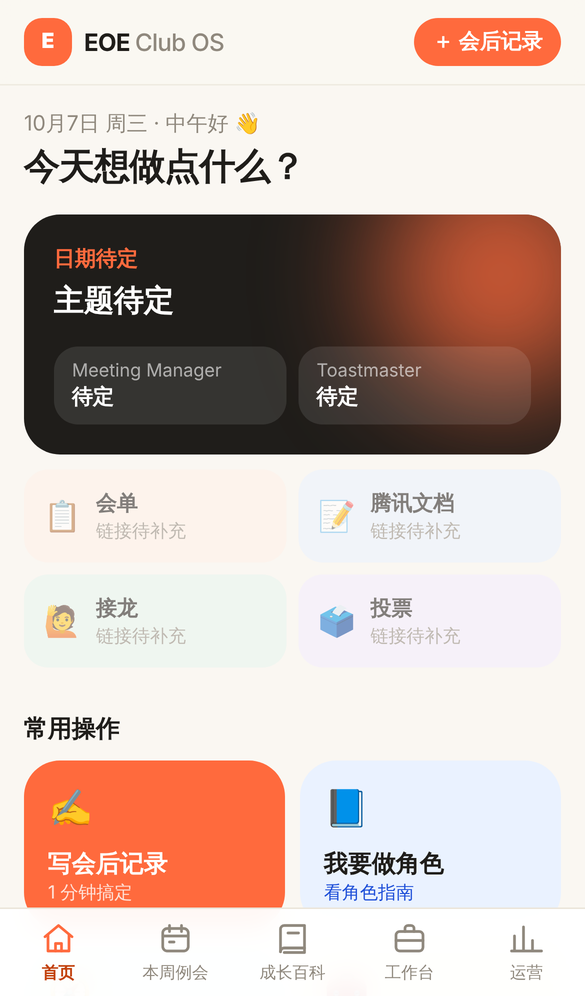
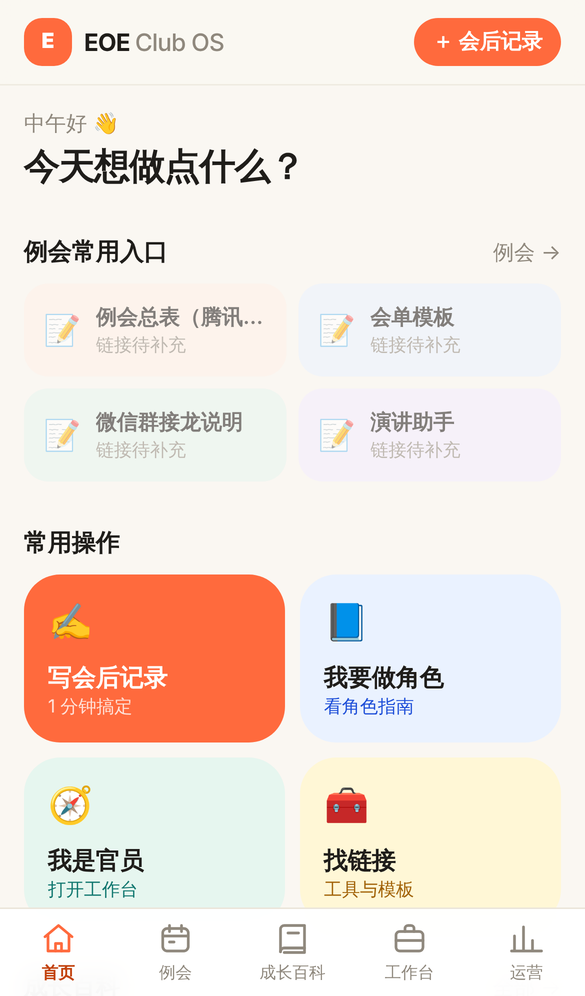
fix: 通用化评审修复
- 文档去掉剩余的人数（十几二十个人 / 20 人规模）和版本标签（v0.1 草稿 / 当前版本）
- 编辑说明里的徽章写法改为不带日期的【EOE 已确认】
- 填写下一场例会：只预填未过期的那一场；日期不能早于今天（浏览器 + 服务端都校验）
- 例会角色匹配：中文名只匹配开头，「即兴主持人」不再连到主持人指南
- 资料表：修正「即兴主持」那条未采用理由（上一轮改得不准确）
- .env.example / schema.sql 注释改为「下一场例会」；README 截图换成通用版

Claude-Session: https://claude.ai/code/session_01KZGEU71QgtF3bT6b4NgJcK

diff --git a/src/app/meeting/edit/page.tsx b/src/app/meeting/edit/page.tsx
@@ -1,14 +1,17 @@
 import Link from "next/link";
 import type { Metadata } from "next";
-import { getTools } from "@/lib/config";
-import { getCurrentMeeting } from "@/lib/meeting";
+import { getMeetingSeed, getTools } from "@/lib/config";
+import { getUpcomingMeeting } from "@/lib/meeting";
+import { todayCN } from "@/lib/date";
 import { MeetingForm } from "@/components/MeetingForm";
 import { PageHeader } from "@/components/ui";
 
 export const metadata: Metadata = { title: "填写下一场例会" };
 
 export default async function EditMeetingPage() {
-  const [meeting, { tools }] = await Promise.all([getCurrentMeeting(), getTools()]);
+  // 只预填还没过期的那一场；过期的不带出来（否则旧主题、旧角色会被当成新的保存）
+  const [upcoming, seed, { tools }] = await Promise.all([getUpcomingMeeting(), getMeetingSeed(), getTools()]);
+  const meeting = upcoming ?? { ...seed, date: "" };
   return (
     <>
       <PageHeader
@@ -26,6 +29,7 @@ export default async function EditMeetingPage() {
           meeting={meeting}
           voteTemplates={tools.filter((t) => t.category === "vote")}
           writeCodeRequired={!!process.env.EOE_WRITE_CODE}
+          minDate={todayCN()}
         />
       </div>
     </>

diff --git a/src/app/actions.ts b/src/app/actions.ts
@@ -3,6 +3,7 @@
 import { revalidatePath } from "next/cache";
 import { redirect } from "next/navigation";
 import { getStore, storeMode } from "@/lib/store";
+import { daysBetween, todayCN } from "@/lib/date";
 import type { GuestSourceCount, LinkItem, Meeting, RoleAssignment } from "@/lib/types";
 
 // 所有写操作都在这里。只有三种写入：新增/删除会后记录、保存下一场例会（可选）。
@@ -115,8 +116,12 @@ export async function saveMeeting(_prev: ActionState, form: FormData): Promise<A
   const denied = checkWriteCode(form);
   if (denied) return { ok: false, error: denied };
 
-  if (!/^\d{4}-\d{2}-\d{2}$/.test(text(form.get("date"), 10))) {
+  const meetingDate = text(form.get("date"), 10);
+  if (!/^\d{4}-\d{2}-\d{2}$/.test(meetingDate)) {
     return { ok: false, error: "请选择例会日期（日期过了，这场的信息会自动隐藏）" };
+  }
+  if (daysBetween(todayCN(), meetingDate) < 0) {
+    return { ok: false, error: "这个日期已经过了，保存后不会显示。请选今天或以后的日期。" };
   }
 
   const meeting: Meeting = {

diff --git a/src/components/MeetingForm.tsx b/src/components/MeetingForm.tsx
@@ -11,10 +11,12 @@ export function MeetingForm({
   meeting: m,
   voteTemplates,
   writeCodeRequired,
+  minDate,
 }: {
   meeting: Meeting;
   voteTemplates: Tool[];
   writeCodeRequired: boolean;
+  minDate: string;
 }) {
   const [state, action, pending] = useActionState<ActionState, FormData>(saveMeeting, { ok: true });
   const [, startTransition] = useTransition();
@@ -25,7 +27,7 @@ export function MeetingForm({
     <form onSubmit={submitWith(action, startTransition)} className="space-y-4">
       <div className="grid grid-cols-2 gap-3">
         <Field label="日期" hint="过了就自动隐藏">
-          <input name="date" type="date" required defaultValue={m.date} className={inputCls} />
+          <input name="date" type="date" required min={minDate} defaultValue={m.date} className={inputCls} />
         </Field>
         <Field label="时间">
           <input name="time" defaultValue={m.time} placeholder="19:30 - 21:30" className={inputCls} />

diff --git a/src/lib/wiki-remark.ts b/src/lib/wiki-remark.ts
@@ -1,7 +1,7 @@
 import path from "path";
 
 // 成长百科的 remark 插件：只改「怎么显示」，不改任何文字。
-//   【EOE 已确认 日期】/（EOE 已确认）→ 绿色徽章，所在条目高亮
+//   【EOE 已确认】/（EOE 已确认）→ 绿色徽章，所在条目高亮（原文带日期也能识别，但日期不显示）
 //   [V1] 等来源编号                  → 可点开的来源标签
 //   （推论…）                         → 推论标签
 //   <!-- TODO(EOE): … -->              → 「待 EOE 确认 / 可选补充」小标签（其他 HTML 一律不渲染）

diff --git a/src/app/meeting/page.tsx b/src/app/meeting/page.tsx
@@ -12,7 +12,8 @@ export const metadata: Metadata = { title: "例会" };
 function matchGuide(role: string, entries: WikiEntry[]) {
   const r = role.toLowerCase();
   return entries
-    .filter((e) => r.includes(e.title.toLowerCase()) || (e.nameZh && role.includes(e.nameZh)))
+    // 中文名只匹配开头：「即兴主持人」不该连到「主持人」
+    .filter((e) => r.includes(e.title.toLowerCase()) || (e.nameZh && role.trim().startsWith(e.nameZh)))
     .sort((a, b) => b.title.length - a.title.length)[0];
 }
 

diff --git a/src/app/workbench/[officer]/page.tsx b/src/app/workbench/[officer]/page.tsx
@@ -92,7 +92,7 @@ export default async function WorkbenchPage({ params }: Props) {
       </div>
 
       <p className="mb-2 text-xs text-ink-3">
-        下面是工作台的通用提醒（v0.1 草稿），不是 EOE 已确认的规则{wiki ? "" : "；这个角色的成长百科页面还没写"}。
+        下面是工作台的通用提醒，不是 EOE 已确认的规则{wiki ? "" : "；这个角色的成长百科页面还没写"}。
       </p>
       <div className="space-y-3">
         {w.blocks.map((b, i) => (

diff --git a/docs/plan-growth-wiki.md b/docs/plan-growth-wiki.md
@@ -17,12 +17,12 @@
 2. **解析**（`src/lib/content.ts` 重写）：按 `## N. 标题` 切出 0–9 节，按 `###` 切小节；标题从一级标题解析（`教育副主席 VPE（…）` → 中文名 / 英文名）；frontmatter 有就优先用。官员 / 会议角色由所在目录决定。
 3. **来源表**（`src/lib/sources.ts`）：解析 `research/SOURCES.md` 的表格和「核心观点」段落 → 编号 → 标题 / 作者 / 链接 / 时间 / 阅读程度。
 4. **可信度标记**（remark 插件，只改显示、不改文字）：
-   - `【EOE 已确认 日期】`、`（EOE 已确认）` → 绿色徽章，所在条目整行高亮；
+   - `【EOE 已确认】`、`（EOE 已确认）` → 绿色徽章，所在条目整行高亮（后来按要求去掉了日期）；
    - `[V1]` 等编号 → 可点的小标签，点开底部弹出来源卡片（「仅读到摘要」的来源单独标出），可跳到资料总表；
    - `（推论…）` → 琥珀色虚线标签；
    - `<!-- TODO(EOE): … -->` → 灰色「待 EOE 确认 / 可选补充」小标签。
 5. **勾选清单**：第 8 节和交接清单的 `- [ ]` 变成可勾选。系统没有登录，所以**按设备保存**（浏览器 localStorage），不做「按用户」。
-6. **新页面**：`/wiki/handover`（官员交接）、`/wiki/context`（EOE 现状）、`/wiki/sources`（资料总表）。交接指南入口放在：首页、成长百科首页顶部、工作台首页顶部、每个官员页和官员工作台。
+6. **新页面**：`/wiki/handover`（官员交接）、`/wiki/context`（EOE 背景）、`/wiki/sources`（资料总表）。交接指南入口放在：首页、成长百科首页顶部、工作台首页顶部、每个官员页和官员工作台。
 7. **扩展**：往 `docs/eoe-growth-wiki/content/officers|roles/` 加一个 `.md` 就会自动出现；图标 / 排序在 `content/wiki-display.yaml`（可选，缺省有默认值）。
 
 ## 顺带要改的（和「不出现假数据」规则直接相关）
@@ -38,7 +38,7 @@
 ## 已发现的格式问题（正文没改，只记录）
 
 1. **缺文件**：合并版里没有 `CLAUDE.md`（内容规则）、各文件的 frontmatter、`CHANGELOG`（交接清单最后一项提到它）。总点评文件名原文没写，暂定 `roles/general-evaluator.md`。
-2. **「EOE 已确认」写法不统一**（会议经理页）：第 3 节末尾和第 8 节第一条写的是 `（EOE 已确认）`（没日期）；第 4 节表格「依据」列写 `EOE` / `EOE + [MM1]`；第 5 节 90 分写 `（EOE）`；主持人页 9.1 第 6 条写 `（EOE 分工 + [T1] 的"主线"思路）`。系统把 `（EOE 已确认）` 显示成不带日期的绿色徽章，其余几种按普通文字显示。建议统一成 `【EOE 已确认 2026-10-06】`，或约定一个「EOE 定义」标记。
+2. **「EOE 已确认」写法不统一**（会议经理页）：第 3 节末尾和第 8 节第一条写的是 `（EOE 已确认）`（没日期）；第 4 节表格「依据」列写 `EOE` / `EOE + [MM1]`；第 5 节 90 分写 `（EOE）`；主持人页 9.1 第 6 条写 `（EOE 分工 + [T1] 的"主线"思路）`。系统把 `（EOE 已确认）` 显示成不带日期的绿色徽章，其余几种按普通文字显示。建议统一成不带日期的 `【EOE 已确认】`，或约定一个「EOE 定义」标记。
 3. **会议经理第 0 节**：`【EOE 已确认】` 只写在段首，下面四条列表属于同一条确认；整节已用绿色底显示，不影响阅读。
 4. **段落归属**：会员副主席第 6 节的「**补充反面案例**」、会议经理第 6 节的「**补充参考**」写在最后一个 `###` 下面，网页上会显示在「前人经验 03」卡片里。如果它们不属于经验 03，建议单独加一个 `###` 小标题。
 5. **SOURCES.md**：官方资料表里 O6 排在 O5 前面；MM3、MM4（借用）没有链接，也没有被任何角色页引用。编号带后缀（`C1（补充）`）系统能识别。

diff --git a/README.md b/README.md
@@ -17,12 +17,12 @@ EOE Club OS
 
 <p>
 <img src="docs/screenshots/home.png" width="190" alt="首页">
-<img src="docs/screenshots/wiki-role.png" width="190" alt="成长百科：角色页">
+<img src="docs/screenshots/meeting.png" width="190" alt="例会：长期有效的入口">
 <img src="docs/screenshots/wiki-first.png" width="190" alt="如果你明天第一次做（可勾选）">
 <img src="docs/screenshots/wiki-source.png" width="190" alt="点开来源编号">
 </p>
 
-当前版本：**v0.1**（见 [docs/ROADMAP.md](docs/ROADMAP.md)）
+路线图见 [docs/ROADMAP.md](docs/ROADMAP.md)。
 
 ---
 
@@ -66,7 +66,7 @@ npm run dev          # 打开 http://localhost:3000
 改完 → 提交到 GitHub → 重新部署即上线。可以直接在 GitHub 网页上编辑 Markdown。
 
 成长百科的写作规则见 `docs/eoe-growth-wiki/` 里的说明（接入方案：[docs/plan-growth-wiki.md](docs/plan-growth-wiki.md)）。系统只负责显示，**不会改写正文**：
-`【EOE 已确认 日期】` 显示成绿色徽章，`[V1]` 显示成可点开的来源标签，`（推论…）` 显示成推论标签，`- [ ]` 变成可勾选清单（勾选状态存在本机）。
+`【EOE 已确认】` 显示成绿色徽章（不要写日期，写了也不显示），`[V1]` 显示成可点开的来源标签，`（推论…）` 显示成推论标签，`- [ ]` 变成可勾选清单（勾选状态存在本机）。
 
 **下一场例会**（可选）和**会后记录**是在网站上直接填写的（存数据库）。下一场例会的日期一过就自动隐藏，不用回来删。
 

diff --git a/docs/ARCHITECTURE.md b/docs/ARCHITECTURE.md
@@ -60,7 +60,7 @@ content/*.md, *.yaml ──> src/lib/content.ts, config.ts ──> 页面（Serv
 - 第 5 节 `### 60/80/90 分` → 成长阶梯卡片
 - 第 6 节 → 前人经验卡片
 - 第 8 节 → 深色「明天第一次做」，`- [ ]` 可勾选
-- 正文里的标记：`【EOE 已确认 日期】`/`（EOE 已确认）` 徽章、`[V1]` 来源标签（点开显示 SOURCES.md 里的来源，虚线 = 只读到摘要）、`（推论…）` 推论标签、`<!-- TODO(EOE) -->` 待确认标签
+- 正文里的标记：`【EOE 已确认】`/`（EOE 已确认）` 徽章（不写日期；即使写了也不显示）、`[V1]` 来源标签（点开显示 SOURCES.md 里的来源，虚线 = 只读到摘要）、`（推论…）` 推论标签、`<!-- TODO(EOE) -->` 待确认标签
 
 **Source（`research/SOURCES.md`）**：按 `##` 分区，表格中「编号」列的每一行 = 一条来源；`**V1 核心观点**：…` 段落挂到对应编号。
 

diff --git a/docs/eoe-growth-wiki/research/SOURCES.md b/docs/eoe-growth-wiki/research/SOURCES.md
@@ -197,5 +197,5 @@
 | franticallyspeaking.com、jdmspeakers.com 的 GE 文章 | 偏 SEO 型通用介绍，缺少作者真实经历 |
 | limunt.com「Toastmaster tips」 | 讲的是婚礼司仪，不是 Toastmasters 会议 |
 | Reddit r/Toastmasters | 只取到版块列表页，没取到具体讨论串正文，不能作为来源 |
-| 知乎「如何做好即兴演讲主持人」https://zhuanlan.zhihu.com/p/125057653 | 与已收录的角色无直接关系 |
+| 知乎「如何做好即兴演讲主持人」https://zhuanlan.zhihu.com/p/125057653 | 主题是即兴主持（属于会议经理的职责），整理时未采用；可作补充阅读 |
 | 博客园「Toastmasters」https://www.cnblogs.com/lvye1221/p/17317396.html | 中文 VPE 职责整理，个人笔记性质，经验成分少，仅作参考 |

diff --git a/docs/BACKLOG.md b/docs/BACKLOG.md
@@ -16,7 +16,7 @@
 | 勋章 | 同上 | — |
 | 商城 | 与核心目标无关 | — |
 | 支付 | 涉及资金合规；量小 | 财务按现有方式收款 |
-| 复杂 CRM | 20 人规模不需要；涉及个人信息 | 只统计嘉宾人数与来源；跟进用微信 |
+| 复杂 CRM | 小俱乐部不需要；涉及个人信息 | 只统计嘉宾人数与来源；跟进用微信 |
 | 自动催办 | 志愿者组织，催办伤感情 | 官员工作台 checklist（只在自己手机上） |
 | 多俱乐部 SaaS | EOE 先用好 | — |
 | 复杂权限 / 登录 | 内部小工具，链接不外传即可 | 可选的俱乐部口令 `EOE_WRITE_CODE` |

diff --git a/docs/PRODUCT.md b/docs/PRODUCT.md
@@ -2,7 +2,7 @@
 
 ## 定位
 
-EOE Club OS 是 EOE 中文演讲俱乐部（十几二十个人）内部使用的入口。
+EOE Club OS 是 EOE 中文演讲俱乐部（一个小俱乐部）内部使用的入口。
 
 **核心目标：减少俱乐部运营者的重复劳动，同时把组织经验沉淀下来。**
 
